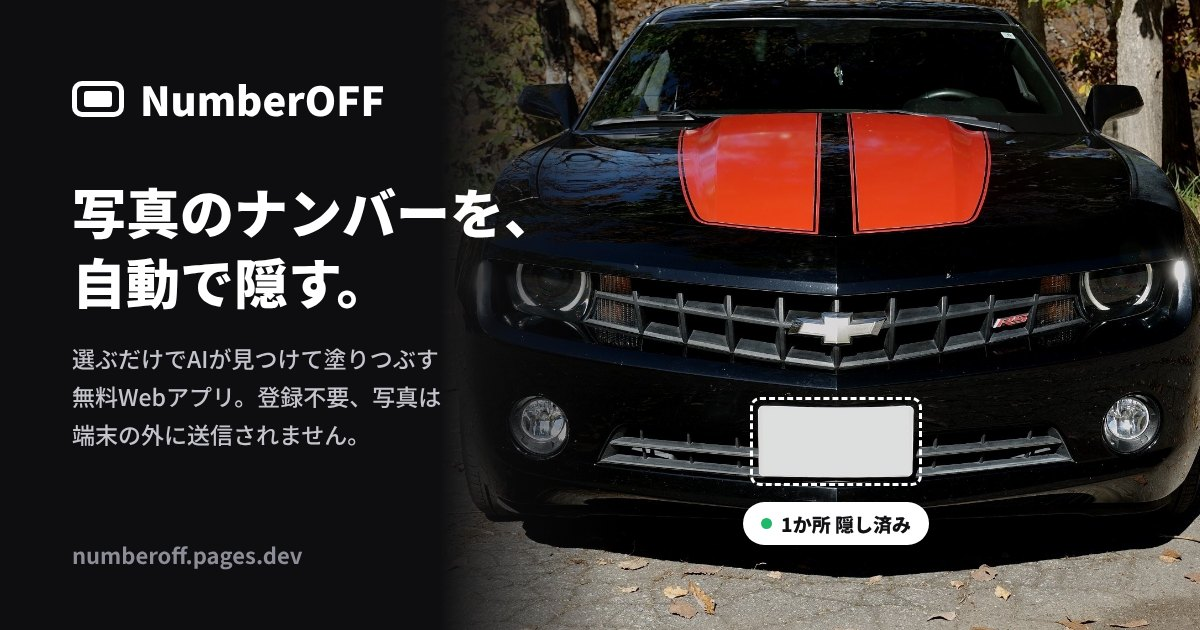
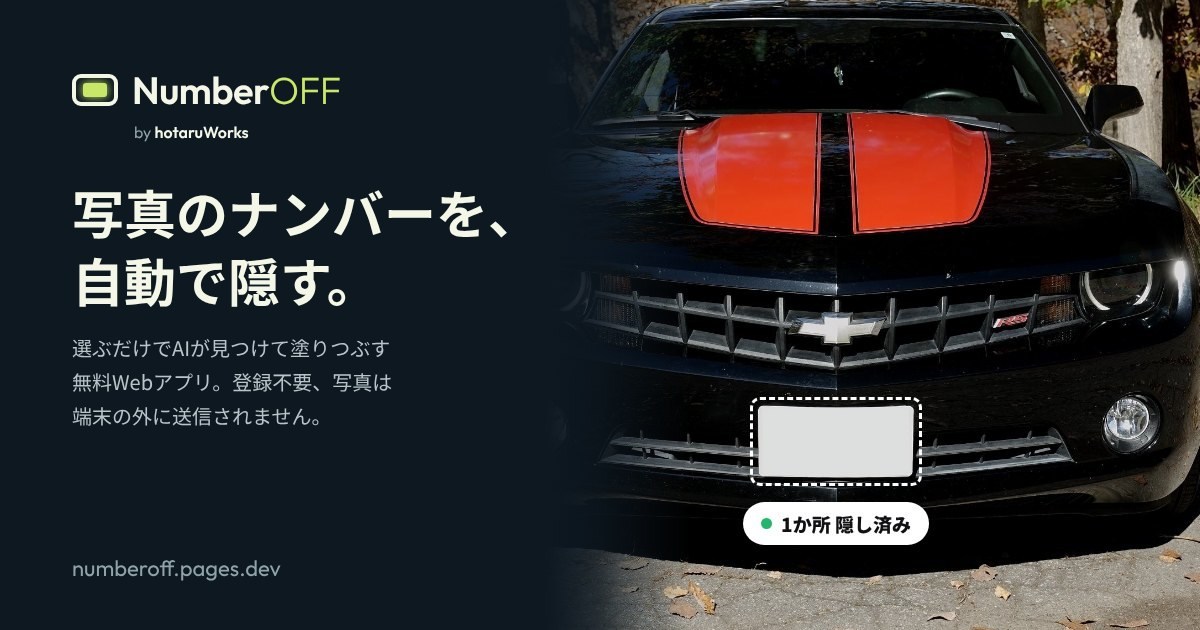
デザイン：共有画像とスクリーンショットを新デザインに、CHANGELOG
Claude-Session: https://claude.ai/code/session_014W2sgQfZpMuCNo1yNwByep

diff --git a/CHANGELOG.md b/CHANGELOG.md
@@ -4,6 +4,10 @@ NumberOFF の主な変更点です。書き方は [Keep a Changelog](https://kee
 
 ## [未リリース]
 
+### 変更
+- デザインを開発者ブランド hotaruWorks に合わせた。夜の紺とホタルの黄緑の配色、Outfit の文字（アプリ内に同梱）、光るプレートのロゴとアプリアイコン。ヘッダーとメニューに「by hotaruWorks」
+- SNS で共有したときの画像（og.jpg）とストア用スクリーンショットを新しいデザインに
+
 ### 追加
 - 「車の写真のナンバーの隠し方・消し方」のページ（/guide）。NumberOFF での手順、iPhone・Android の標準機能で隠す方法、ぼかし・モザイクの注意点、よくある質問。紹介文からリンク
 - 紹介文に Windows 版（Microsoft Store）へのリンク
